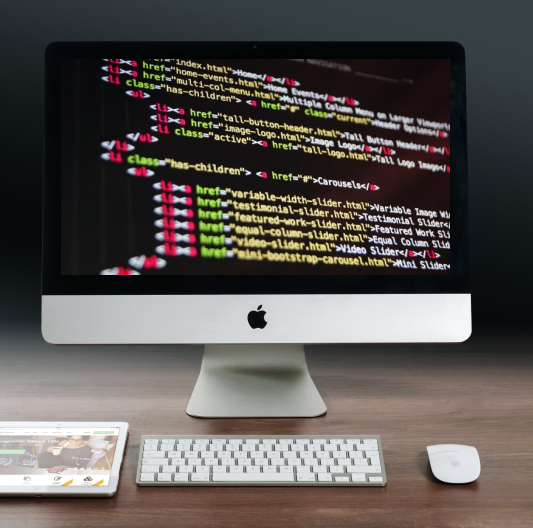
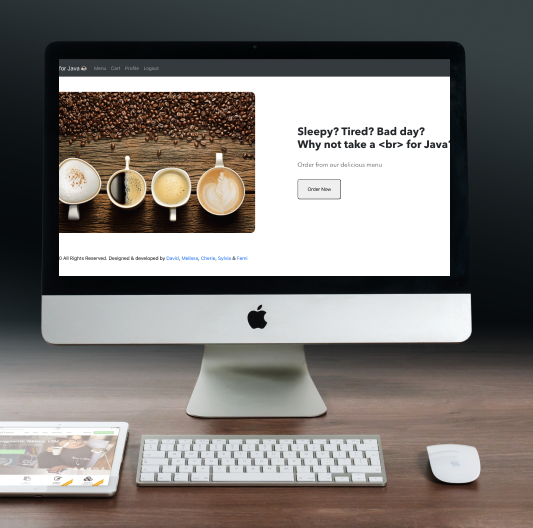
update projects with new project

Changed region(s): [[0.0901, 0.0909, 0.8705, 0.5455]]

diff --git a/src/components/Portfolio/index.js b/src/components/Portfolio/index.js
@@ -25,10 +25,10 @@ function Portfolio () {
             githubLink: "https://github.com/melissabcadena/technical-coding-quiz.git",
             deployedLink: "https://melissabcadena.github.io/technical-coding-quiz"        },
         {
-            name: "Read Me Generator",
-            description: "This application allows users to quickly and easily generate a professional ReadMe.md file via the command line using Node.js. The user will be prompted with several questions for information required to create the file. Once created, the ReadMe.md file will put output into the dist file of the application's directory.",
-            githubLink: "https://github.com/melissabcadena/readme-generator",
-            deployedLink: "No deployed link"        },
+            name: "<br> for Java",
+            description: "This application uses the MERN stack to create an application for a local coffee shop. Users can place their orders for pick-up via this app. The menu shows all of the drinks, allows users to add their customized items to the cart, and to check out. This app can be downloaded as a PWA and has offline functionality.",
+            githubLink: "https://github.com/melissabcadena/project-3",
+            deployedLink: "https://br-for-java.herokuapp.com/"        },
         {
             name: "E-Commerce Back End",
             description: "This is the back end application for an e-commerce site. Using Sequelize, the models for the Category, Product, ProductTag, and Tag endpoints have been added. The CRUD routes for the Category, Product and Tag models has also been added to the code.",

diff --git a/src/App.js b/src/App.js
@@ -3,7 +3,12 @@ import Header from './components/Header'
 import Nav from './components/Nav'
 import Content from './components/Content';
 import Footer from './components/Footer';
+import Background from './images/hero.jpg'
 import './App.css';
+
+const style = {
+  backgroundImage: `url(${ Background })`
+};
 
 function App() {
 
@@ -25,7 +30,7 @@ function App() {
   const [currentCategory, setCurrentCategory] = useState(categories[0]);
 
   return (
-    <div>
+    <div style= { style }>
       <Header>
           <Nav 
           categories={categories}

diff --git a/src/components/Contact/index.js b/src/components/Contact/index.js
@@ -14,6 +14,7 @@ function Contact () {
     return (
         <section>
           <h1>Contact me</h1>
+          <p>Name, email, and message are required fields!</p>
           <form id="contact-form" onSubmit={handleSubmit}>
             <div>
               <label htmlFor="name">Name:</label>
